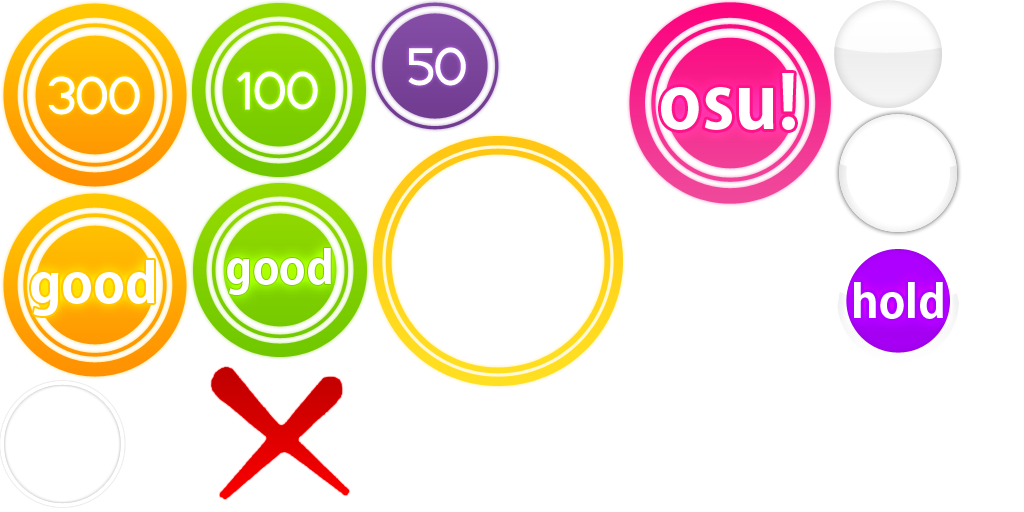
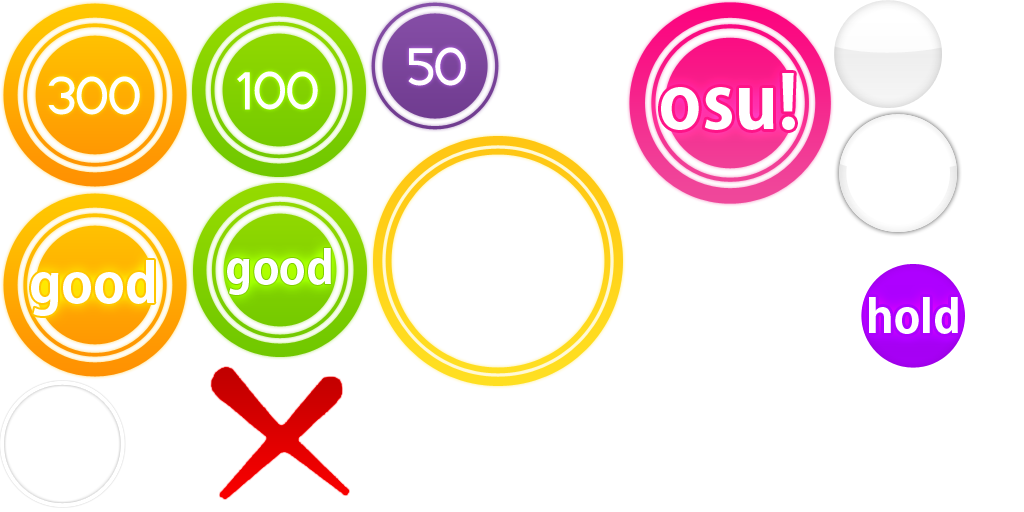
Fixed follow points not displaying.

Changed region(s): [[0.8125, 0.4688, 0.9688, 0.7188]]

diff --git a/osum/GameplayElements/HitObjectManager_Load.cs b/osum/GameplayElements/HitObjectManager_Load.cs
@@ -345,7 +345,7 @@ namespace osum.GameplayElements
 
             float StackOffset = DifficultyManager.HitObjectRadius / 10;
 
-            pTexture[] fptextures = TextureManager.LoadAnimation("followpoint");
+            pTexture fptexture = TextureManager.Load(OsuTexture.followpoint);
 
             Vector2 stackVector = new Vector2(StackOffset, StackOffset);
 
@@ -483,12 +483,11 @@ namespace osum.GameplayElements
                         int fadein = (int)(time1 + fraction * length) - DifficultyManager.FollowLinePreEmpt;
                         int fadeout = (int)(time1 + fraction * length);
 
-                        pAnimation dot =
-                            new pAnimation(fptextures,
+                        pSprite dot =
+                            new pSprite(fptexture,
                                            FieldTypes.Gamefield512x384, OriginTypes.Centre, ClockTypes.Audio, pos,
                                            0.1f, false, Color4.White);
-                        dot.SetFramerateFromSkin();
-
+                        
                         dot.Transform(
                             new Transformation(TransformationType.Fade, 0, 1, fadein, fadein + DifficultyManager.FadeIn));
                         dot.Transform(

diff --git a/osum/Graphics/TextureManager.cs b/osum/Graphics/TextureManager.cs
@@ -56,8 +56,10 @@ namespace osum.Graphics.Skins
 
             textureLocations.Add(OsuTexture.sliderarrow, new SpriteSheetTexture("hit", 626, 206, 77, 58));
 
-            textureLocations.Add(OsuTexture.holdcircle, new SpriteSheetTexture("hit", 834, 238, 128, 128));
+            textureLocations.Add(OsuTexture.holdcircle, new SpriteSheetTexture("hit", 834, 238, 157, 158));
+            textureLocations.Add(OsuTexture.followpoint, new SpriteSheetTexture("hit", 195, 387, 11, 11));
         }
+
 
 		public static void DisposeAll()
 		{
@@ -202,6 +204,8 @@ namespace osum.Graphics.Skins
         hitcircleoverlay,
         approachcircle,
         sliderarrow,
-        holdcircle
+        holdcircle,
+        followpoint
+
     }
 }
